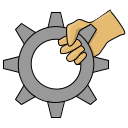
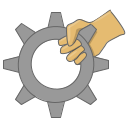
improve visuals

diff --git a/proof-of-control/index.md b/proof-of-control/index.md
@@ -4,8 +4,8 @@
 
 These credentials assert that the issuee has demonstrated to the issuer the ability to control a social media handle, a web site, DNS records, an email account, a phone number, or a similar digital resource. They are NOT used to assert *possession of a physical object* such as a key or a driver's license. 
 
-![suggested proof-of-control visual](proof-of-control-512.png)<br>
-Suggested visual: [svg](proof-of-control.svg) | [128 px](proof-of-control-128.png) | [64 px](proof-of-control-64.png) | [32 px](proof-of-control-32.png)
+![suggested proof-of-control visual](proof-of-control-256.png)<br>
+Suggested visual: [svg](proof-of-control.svg) | [512 px](proof-of-control-512.png) | [128 px](proof-of-control-128.png) | [64 px](proof-of-control-64.png) | [48 px](proof-of-control-48.png) | [32 px](proof-of-control-32.png)
 
 ### Parties are only identifiers
 

diff --git a/bindkey/index.md b/bindkey/index.md
@@ -1,6 +1,6 @@
-## BindKeys
+## BindKey Credentials
 
-This type of credential lets the controller of an AID make a formal, public declaration that they using another cryptographic key (besides the one bound to their AID) for a particular purpose.
+These credentials let the controller of an AID make a formal, public declaration that they use another cryptographic key (besides the one bound to their AID) for a particular purpose.
 
 ![suggested bindkey visual](bindkey-256.png)<br>
 Suggested visual: [svg](bindkey.svg) | [128 px](bindkey-128.png) | [64 px](bindkey-64.png) | [32 px](bindkey-32.png)
